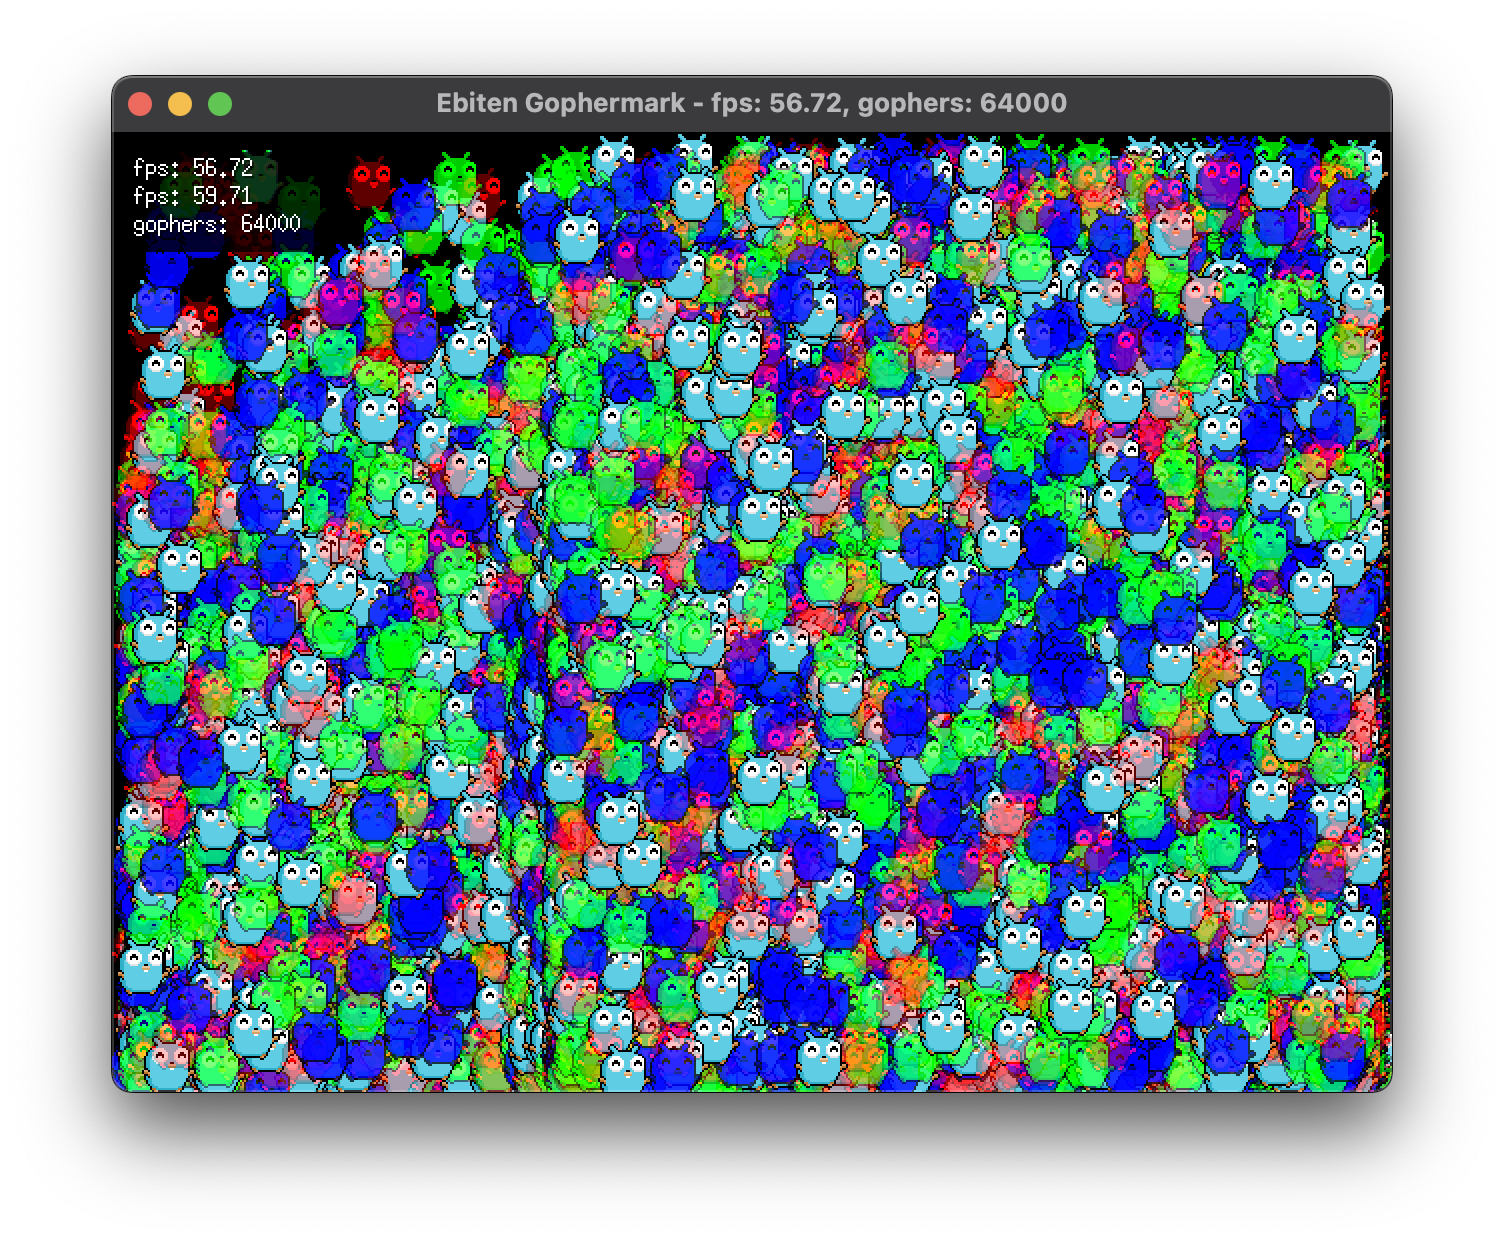
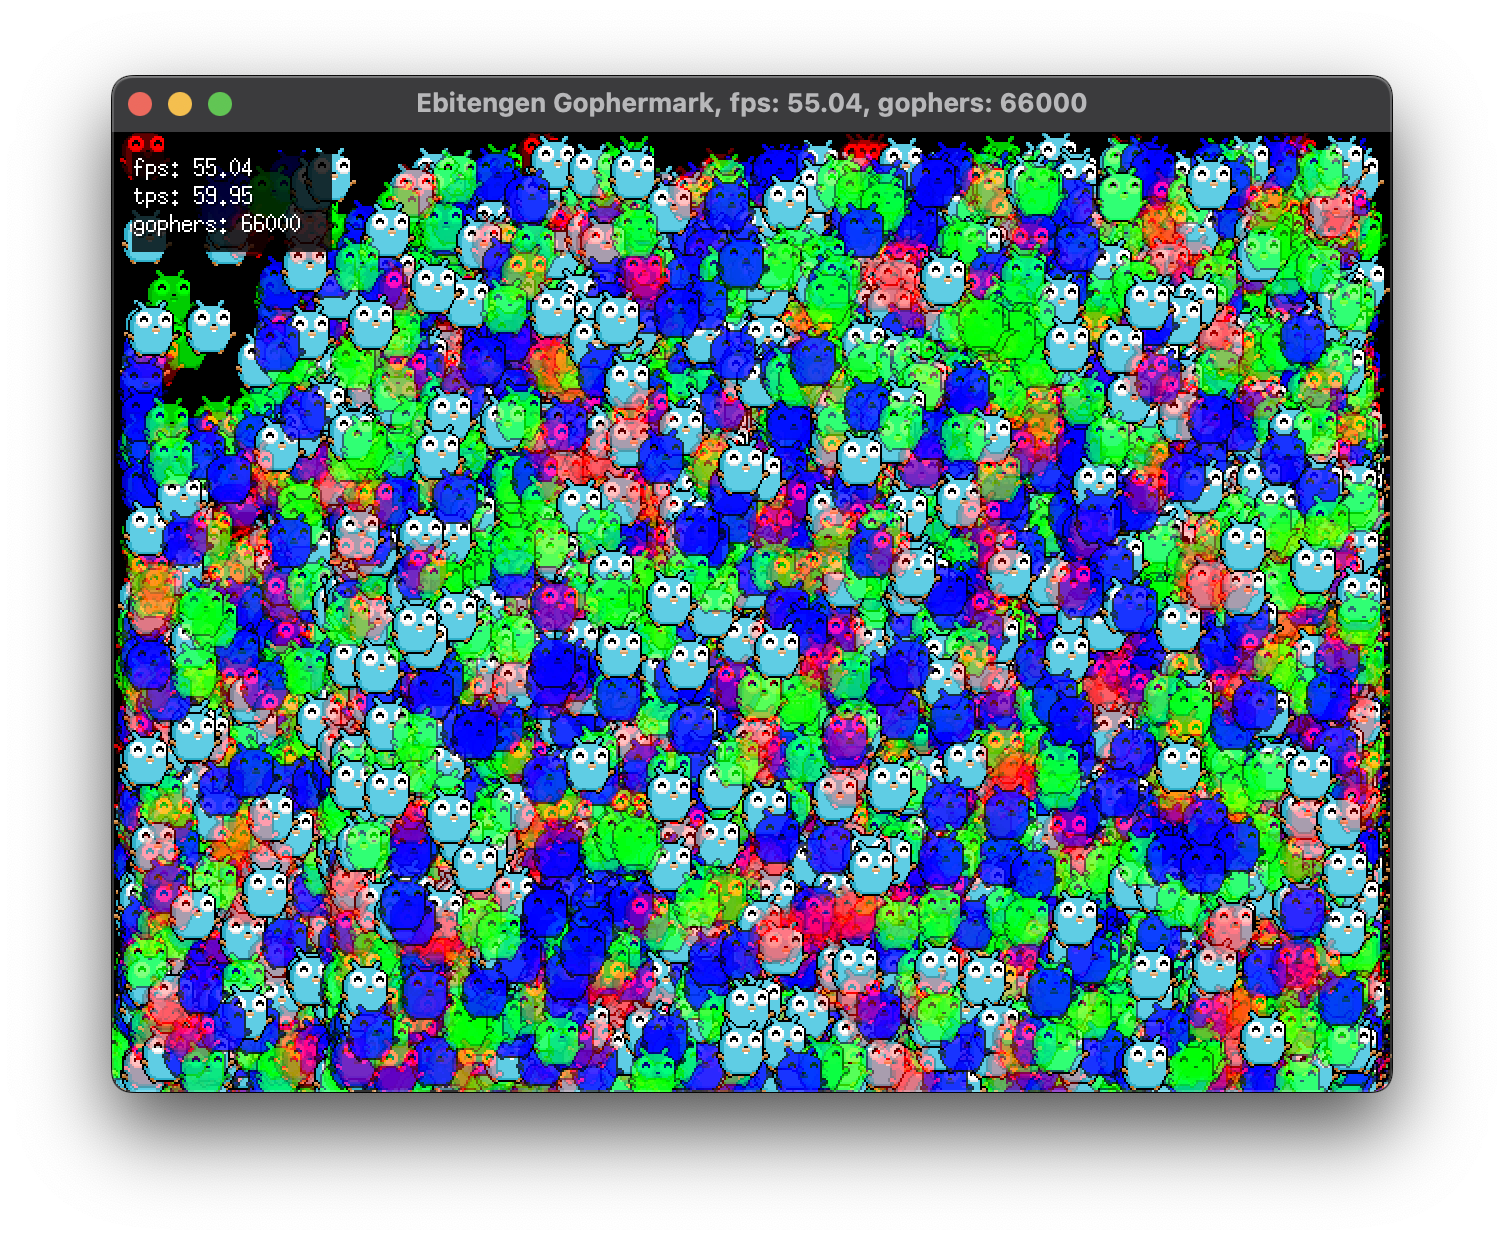
oops

diff --git a/main.go b/main.go
@@ -166,7 +166,7 @@ func (gm *Gophermark) Draw(sc *eb.Image) {
 		tps := eb.ActualTPS()
 
 		ebitenutil.DebugPrintAt(sc, fmt.Sprintf("fps: %.2f", fps), 10, 10)
-		ebitenutil.DebugPrintAt(sc, fmt.Sprintf("fps: %.2f", tps), 10, 24)
+		ebitenutil.DebugPrintAt(sc, fmt.Sprintf("tps: %.2f", tps), 10, 24)
 		ebitenutil.DebugPrintAt(sc, fmt.Sprintf("gophers: %d", gm.Total), 10, 38)
 
 		eb.SetWindowTitle(fmt.Sprintf("Ebitengen Gophermark, fps: %.2f, gophers: %d", fps, gm.Total))
